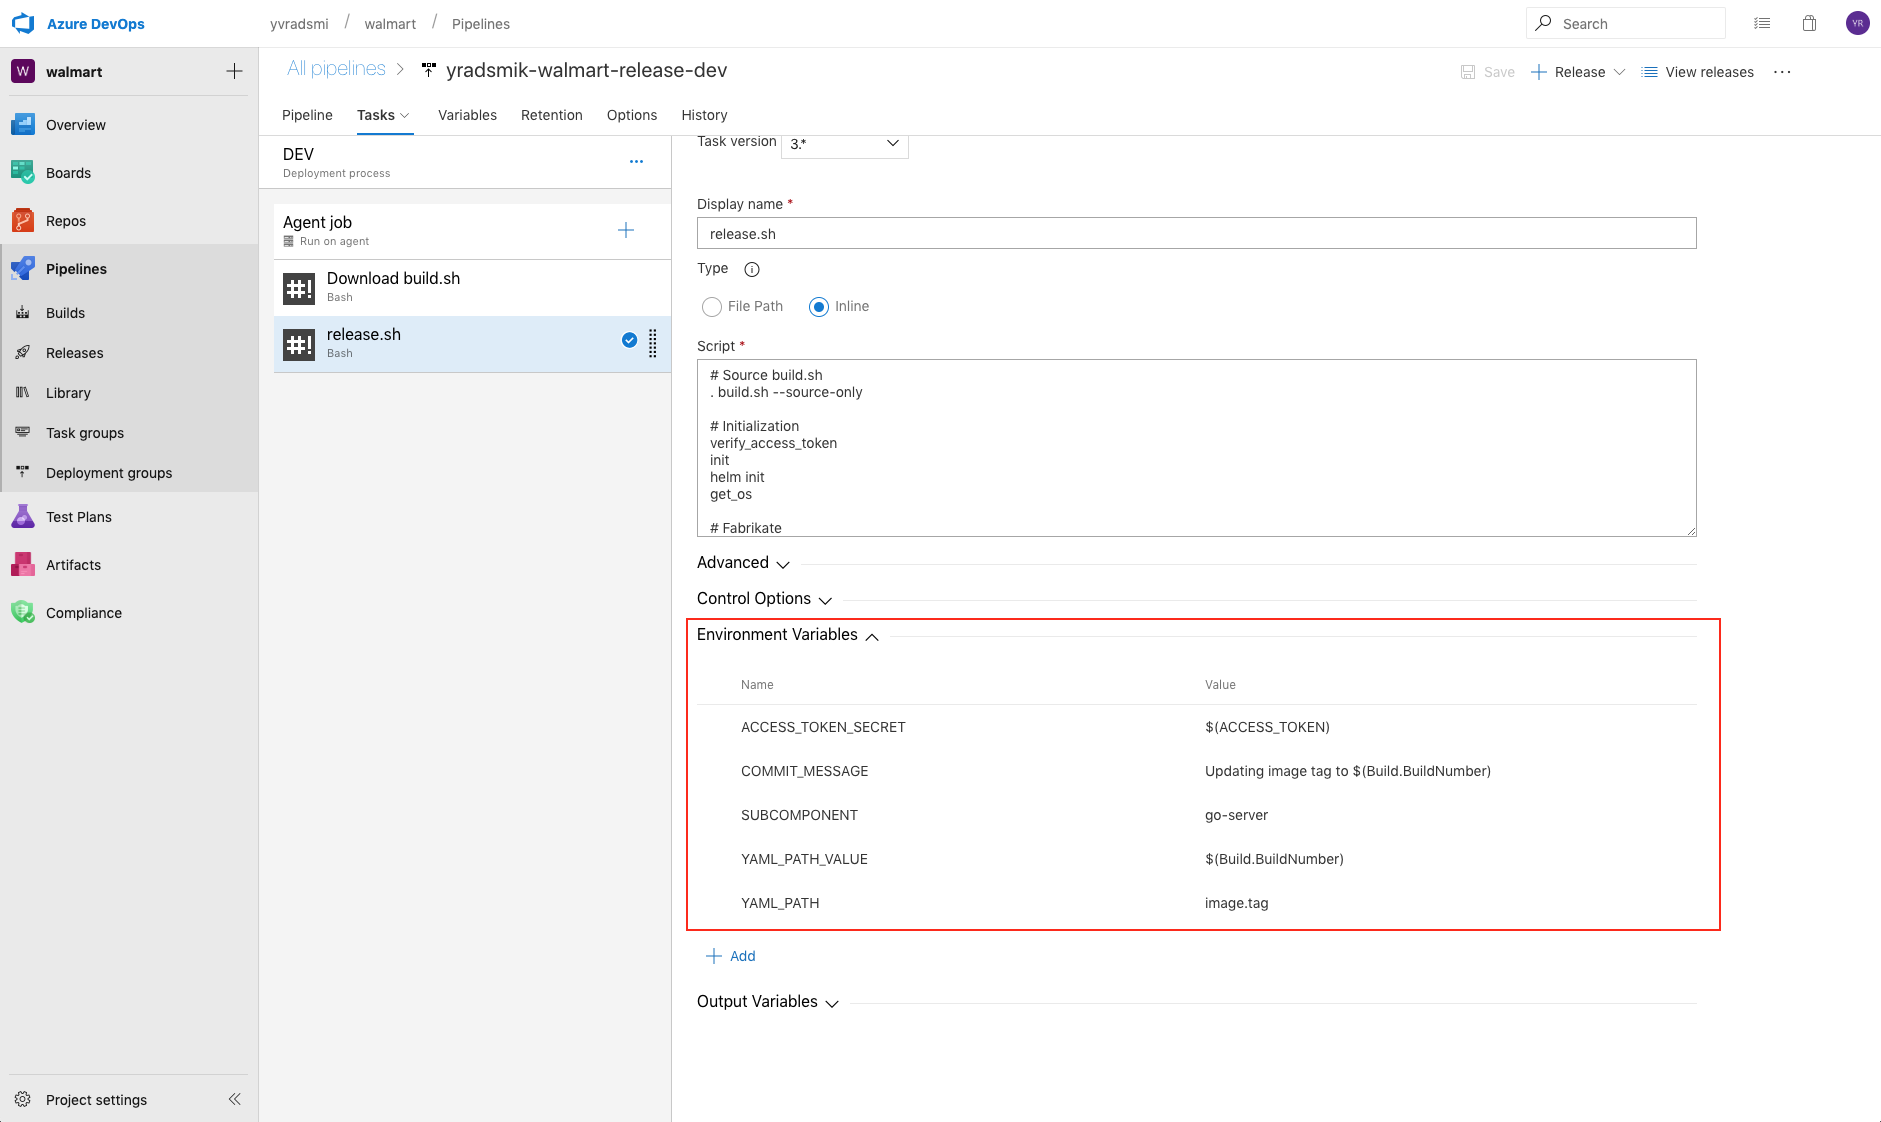
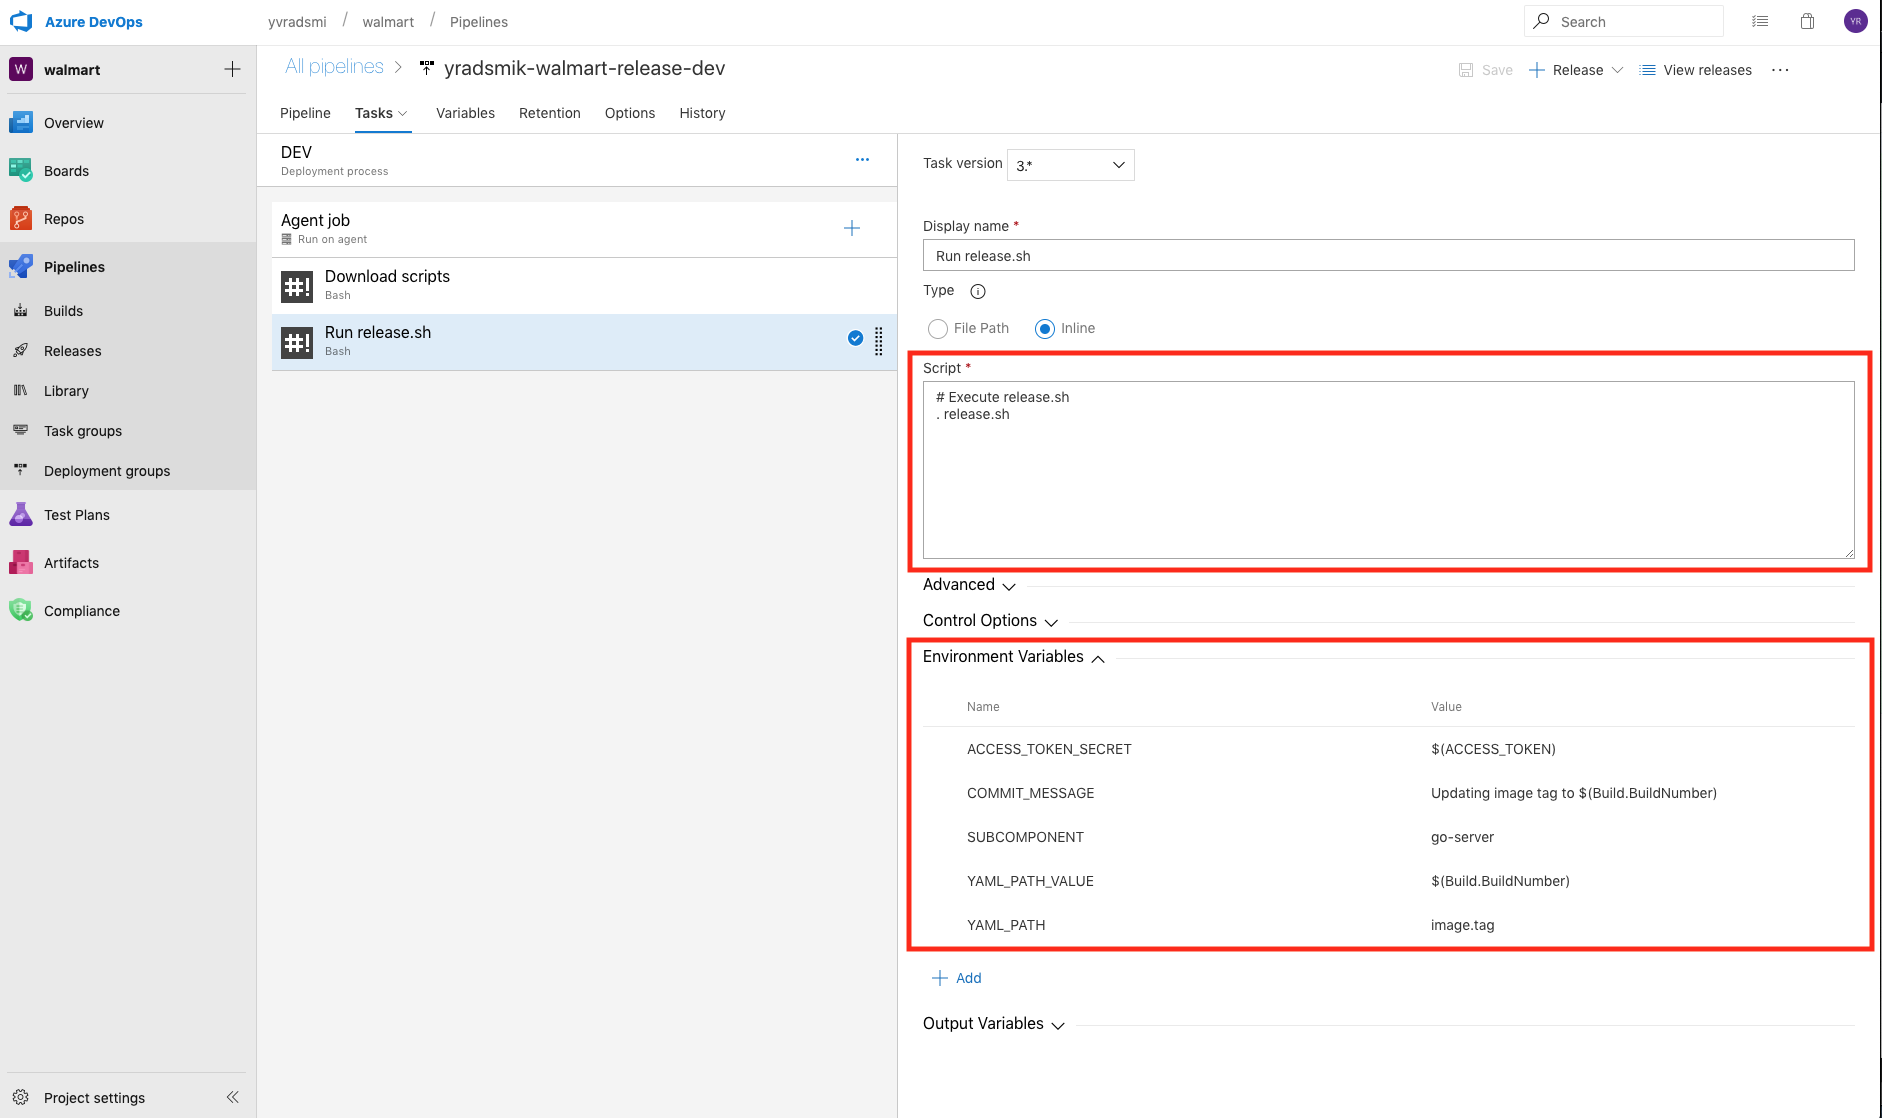
Revised documentation

diff --git a/gitops/azure-devops/README.md b/gitops/azure-devops/README.md
@@ -96,11 +96,11 @@ The `ACCESS_TOKEN` and `REPO` variables are specifically used in the `build.sh`,
 
 ![Release Pipeline Variable](images/releases-pipeline-var.png)
 
-The stages each involve two tasks: `Download build.sh`, and `release.sh`. The `Download build.sh` task downloads the `build.sh` from the Microsoft/Bedrock repo.
+The stages each involve two tasks: `Download scripts`, and `release.sh`. The `Download scripts` task downloads the `build.sh` and `release.sh` from the Microsoft/Bedrock repo.
 
 ![Release Task 1](images/release-task1.png)
 
-The `release.sh` can either be fed a file if the `release.sh` file exists locally in the repo, or it can take in the script inline. Regardless, environment variables will need to be set for the tasks:
+The `Run release.sh` task will execute `release.sh` with the following environment variables:
 
 ```
 ACCESS_TOKEN_SECRET: $(ACCESS_TOKEN)
